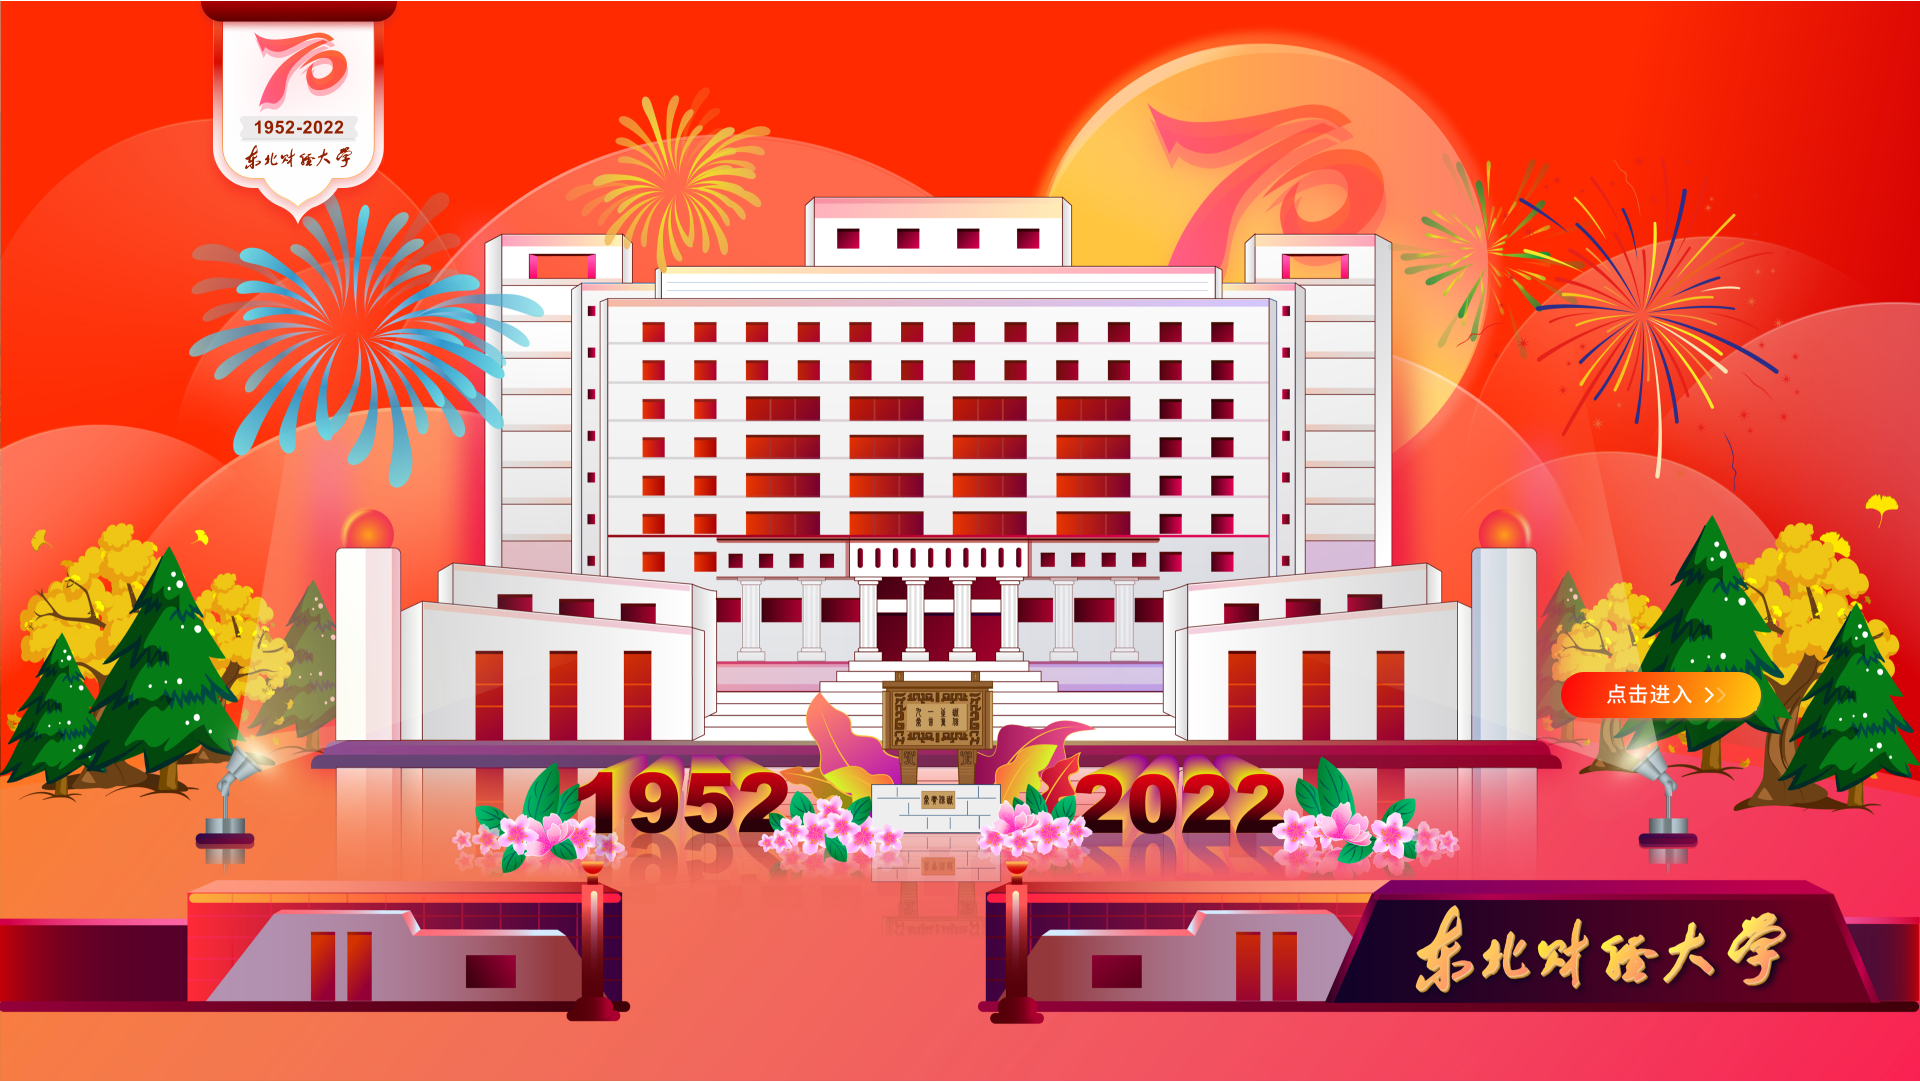
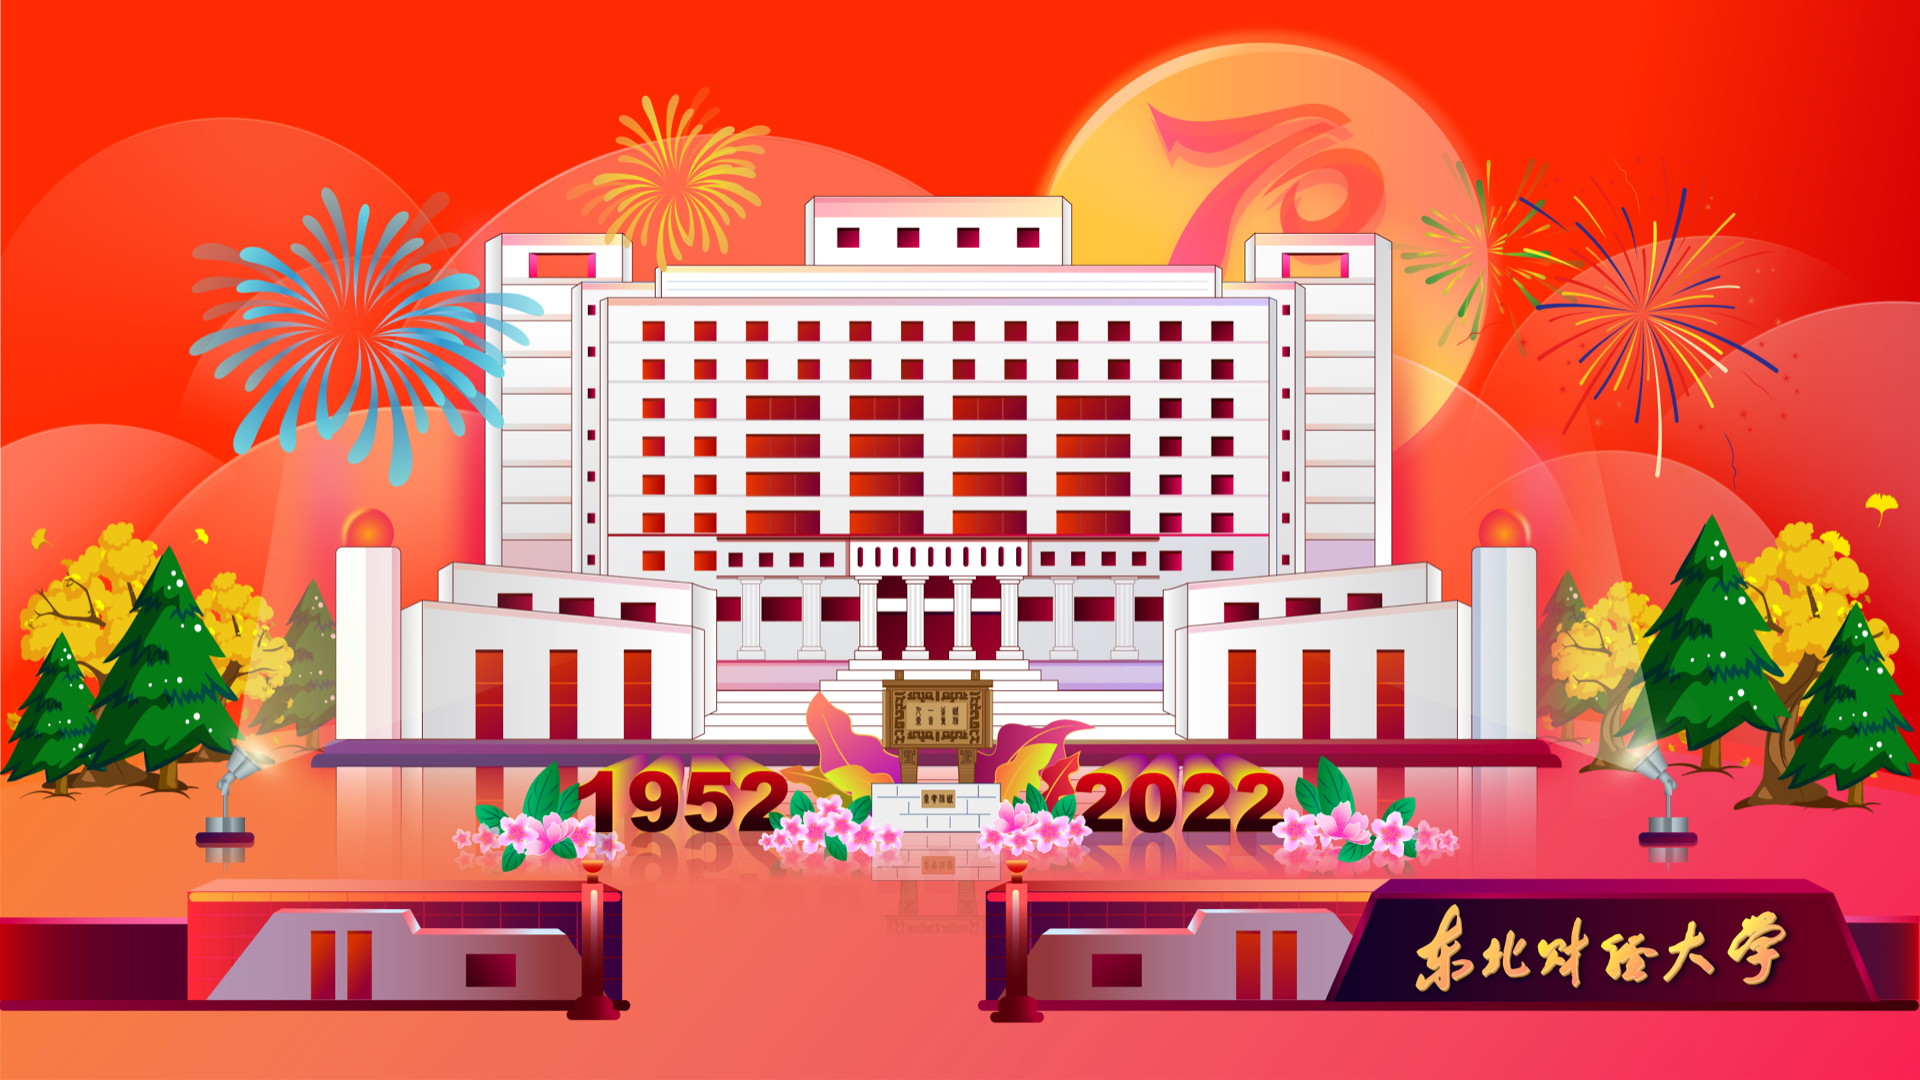
修改烟花

diff --git a/app/landing.html b/app/landing.html
@@ -30,10 +30,11 @@
 
     <div class="landing-swiper"></div>
 
-    <div class="landing-fireworks">
-        <div class="landing-fireworks-left"></div>
-        <div class="landing-fireworks-right"></div>
+    <div id="firework1" class="landing-fireworks">
+        <!-- <div class="landing-fireworks-left"></div>
+        <div class="landing-fireworks-right"></div> -->
     </div>
+    <div id="firework2" class="landing-fireworks"></div>
 
 </div>
 
@@ -130,7 +131,7 @@
         },
         "opacity": 0.1,
         "acceleration": 1.1,
-        "friction": 0.96,
+        "friction": 0.94,
         "gravity": 0.3,
         "particles": 130,
         "trace": 1,
@@ -142,7 +143,7 @@
         "lineWidth": {
             "explosion": {
                 "min": 2,
-                "max": 7.5
+                "max": 5.5
             },
             "trace": {
                 "min": 0.00000001,
@@ -159,8 +160,10 @@
             }
         },
     }
-    var leftfirework = new Fireworks(document.querySelector('.landing-fireworks-left'), fireworkConfig)
-    var rightfirework = new Fireworks(document.querySelector('.landing-fireworks-right'), fireworkConfig)
+    var leftfirework = new Fireworks(document.querySelector('#firework1'), {...fireworkConfig,
+    "boundaries": { visible: true, x: 0, y: 130, width: screen.width/2, height: screen.height }})
+    var rightfirework = new Fireworks(document.querySelector('#firework2'), {...fireworkConfig,
+    "boundaries": { visible: true, x: screen.width/2, y: 50, width: screen.width*2, height: screen.height }})
     leftfirework.start()
     rightfirework.start()
 </script>
